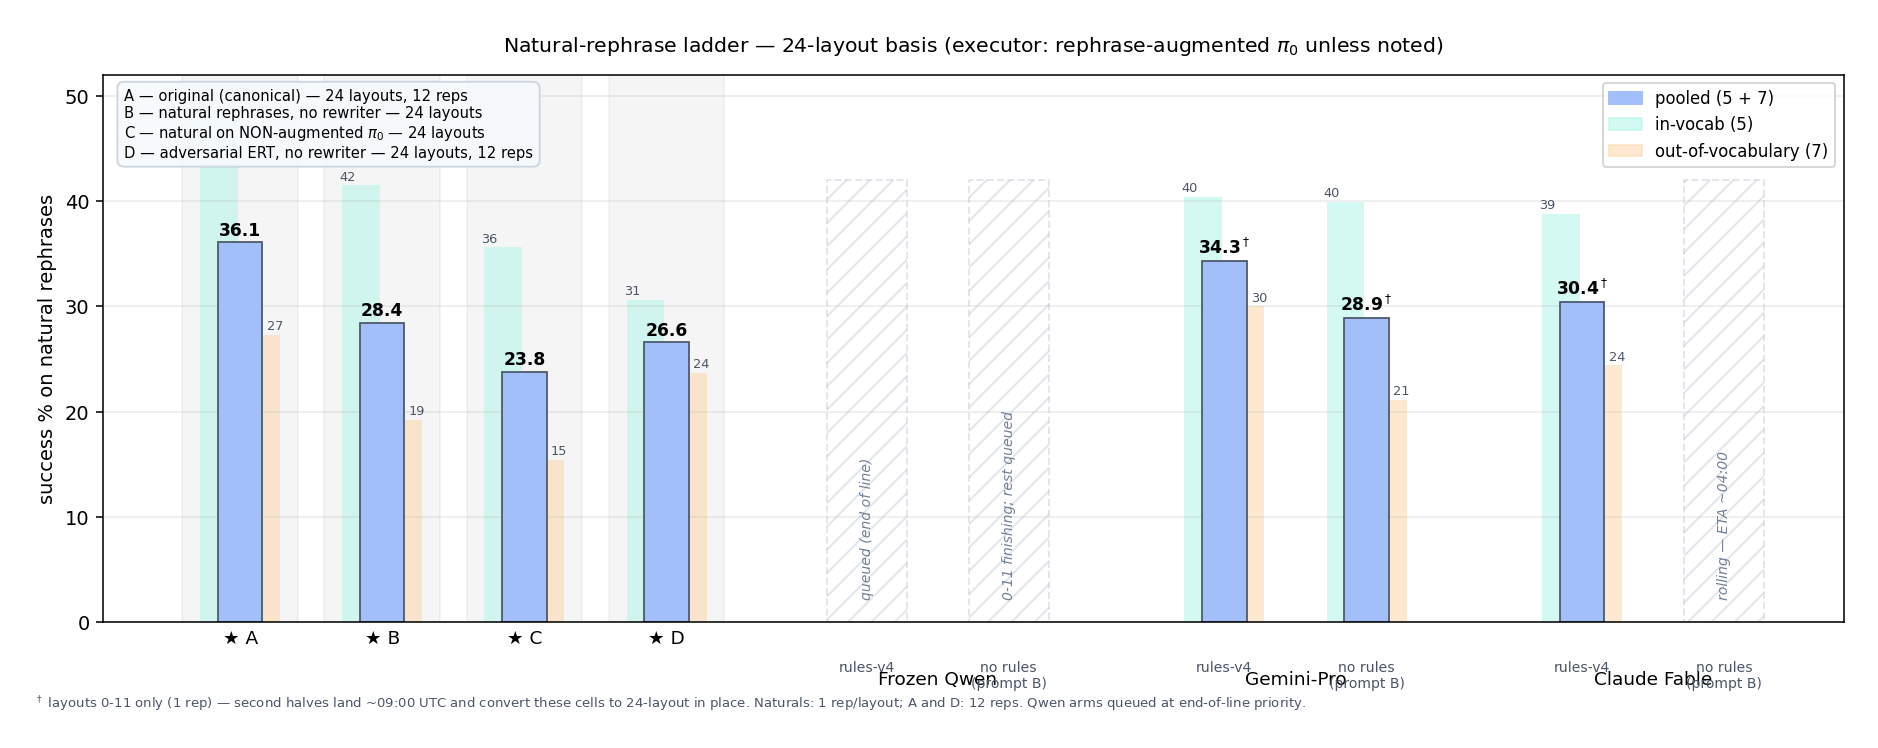
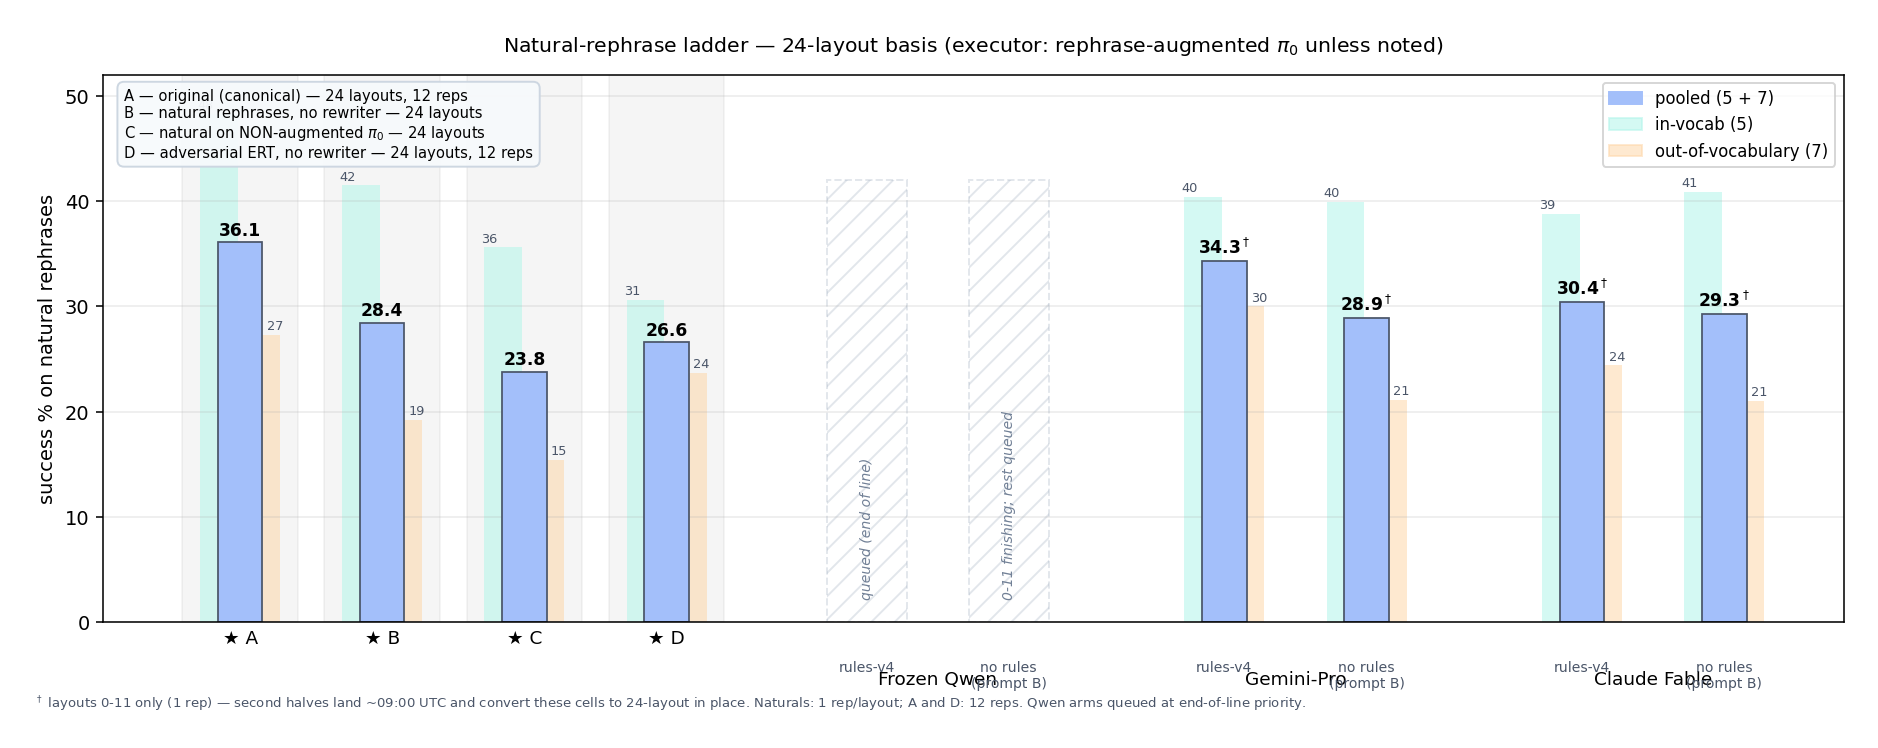
ladder: Claude prompt-B 29.30 — rules value applier-dominated (+5.4 vs +1.1)

Changed region(s): [[0.8956, 0.246, 0.9574, 0.8302]]

diff --git a/scripts/make_natural_ladder.py b/scripts/make_natural_ladder.py
@@ -21,12 +21,11 @@ ROLES = ["rules-v4", "no rules (prompt B)"]
 MODELS = {
     "Frozen Qwen":  [None, None],
     "Gemini-Pro":   [(34.33, 40.4, 30.0, True), (28.91, 39.9, 21.1, True)],
-    "Claude Fable": [(30.43, 38.8, 24.4, True), None],
+    "Claude Fable": [(30.43, 38.8, 24.4, True), (29.30, 40.9, 21.0, True)],
 }
 PENDING = {
     ("Frozen Qwen", 0): "queued (end of line)",
     ("Frozen Qwen", 1): "0-11 finishing; rest queued",
-    ("Claude Fable", 1): "rolling — ETA ~04:00",
 }
 
 

diff --git a/EXPERIMENT.md b/EXPERIMENT.md
@@ -3311,3 +3311,13 @@ Prompt-B bare Gemini already recovers a third of the natural damage (26.30 ->
 28.91 on 0-11); the rules doc adds +5.4 more (-> 34.33). Contrast Claude:
 rules 30.43 (promptB cell lands ~04:00 for its delta). Interim reading: for
 Gemini the rules CONTENT carries most of the repair; bare instinct is modest.
+
+## 2026-08-06 ~02:55 UTC — rr16_promptB_claude 29.30: rules-content value is APPLIER-DOMINATED
+Both rules-vs-bare pairs complete (naturals, 0-11): bare instincts nearly
+IDENTICAL (Gemini 28.91, Claude 29.30) but rules-v4 adds +5.42 via Gemini vs
++1.13 via Claude — ~5x spread in the VALUE OF THE SAME DOCUMENT by who
+applies it. Combined with the broken-tail mechanism (Claude's material
+rewrites achieve half Gemini's success), the finding sharpens: the document's
+worth is not in the words; it is in the applier's execution of them on the
+input register at hand. rules_interaction chart gains the bare-baseline panel
+in the morning synthesis.
